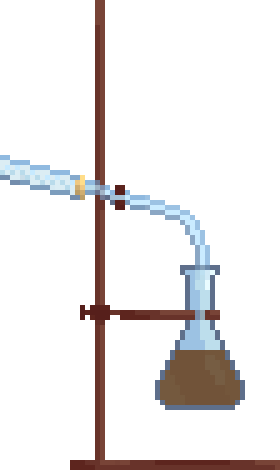
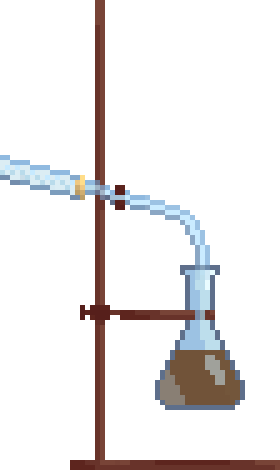
KeroMaker Alfa 1.1
Added anohter bottle, final animation, fifth game phase

Changed region(s): [[0.5714, 0.7745, 0.6571, 0.8638], [0.7143, 0.7447, 0.8, 0.834], [0.7714, 0.6553, 0.8, 0.6851]]

diff --git a/GamePage.xaml b/GamePage.xaml
@@ -50,16 +50,17 @@
 
             <AbsoluteLayout Grid.Column="1" HorizontalOptions="Start">
                 <ImageButton x:Name="imageDestylator3Part"
-                Source="destylator_3_part.svg"
                 HeightRequest="313.3"
                 AbsoluteLayout.LayoutBounds="0, 0, 186.6, 314"
                 AbsoluteLayout.LayoutFlags="PositionProportional"
                 Clicked="ImageDestylator3_Clicked"/>
-                <ImageButton Source="lamp.svg"
+                <ImageButton x:Name="imageLamp"
+                Source="lamp.svg"
                 WidthRequest="100"
                 HeightRequest="170"
                 AbsoluteLayout.LayoutBounds="0, 0, 360, 50"
-                AbsoluteLayout.LayoutFlags="PositionProportional"/>
+                AbsoluteLayout.LayoutFlags="PositionProportional"
+                Clicked="ImageLamp_Clicked"/>
             </AbsoluteLayout>
         </Grid>
 

diff --git a/GamePage.xaml.cs b/GamePage.xaml.cs
@@ -3,6 +3,8 @@ using System.Diagnostics;
 using CommunityToolkit.Maui.Views;
 using MauiToolkitPopupSample.PopUps;
 using KeroMaker.PopUps;
+using System;
+using System.Reflection;
 
 namespace KeroMaker;
 
@@ -37,15 +39,20 @@ public partial class GamePage : ContentPage
                     break;
                 case 2:
                     gamePhase = value;
-                    ChangeOilBottlePhase(1);
+                    ChangeOilBottlePhase(0);
                     ChangeKeroseneBottlePhase(1);
                     break;
                 case 3:
                     gamePhase = value;
-                    ChangeOilBottlePhase(1);
+                    ChangeOilBottlePhase(0);
                     ChangeKeroseneBottlePhase(1);
                     break;
                 case 4:
+                    ChangeOilBottlePhase(0);
+                    ChangeKeroseneBottlePhase(2);
+                    gamePhase = value;
+                    break;
+                case 5:
                     gamePhase = value;
                     Win();
                     break;
@@ -55,6 +62,7 @@ public partial class GamePage : ContentPage
             }
         }
     }
+    
     public GamePage(MainPage mainPage)
     {
         
@@ -80,6 +88,7 @@ public partial class GamePage : ContentPage
 
         playerMixture.addIngredient(ingredients[0]);
         playerMixture.addIngredient(ingredients[1]);
+        imageDestylator3Part.Source = "destylator_3_part.svg";
         GamePhase = 0;
         currentKeroseneBottlePhase = 0;
     }
@@ -120,12 +129,12 @@ public partial class GamePage : ContentPage
         else if (phase == 1)
         {
             currentKeroseneBottlePhase = 1;
-            imageDestylator3Part.Source = "destylator_3_part_filled.png";
+            imageDestylator3Part.Source = "destylator_3_part_refined.png";
         }
         else if (phase == 2)
         {
             currentKeroseneBottlePhase = 2;
-            imageDestylator3Part.Source = "destylator_3_part_refined.png";
+            imageDestylator3Part.Source = "destylator_3_part_filled.png";
         }
     }
     //Wydarzenia klikniêcia obiektów
@@ -159,6 +168,7 @@ public partial class GamePage : ContentPage
             Navigation.PushAsync(new IngredientPage(ingredients, mainPage, this));
         }
 
+
     }
     private async void ImageButtonHint_Clicked(object sender, EventArgs e)
     {
@@ -170,8 +180,54 @@ public partial class GamePage : ContentPage
             timewatch.StartDispatcherTimer();
         }
     }
+    bool isLampClicked = false;
+    private void ImageLamp_Clicked(object sender, EventArgs e)
+    {
+        //Navigation.PushAsync(new IngredientPage(ingredients, mainPage, this));
+        if (gamePhase == 4 && !isLampClicked) 
+        {
+            isLampClicked = true;
+            FinalAnimation();
+        }
+    }
+    
+
+    private void FinalAnimation()
+    {
+        string desylatorSource;
+        string lampSource;
+        int destykatorIndex = 6;
+        int lampIndex = 1;
+        Device.StartTimer(TimeSpan.FromMilliseconds(800), () =>
+        {
+            desylatorSource = "destylator_3_part_filled_" + Convert.ToString(destykatorIndex) + ".png";
+            lampSource = "lamp_filled" + Convert.ToString(destykatorIndex) + ".png";
+
+            imageLamp.Source = lampSource;
+            imageDestylator3Part.Source = desylatorSource;
+
+            destykatorIndex--;
+            lampIndex++;
+
+            if (destykatorIndex == 0)
+            {
+                GamePhase = 5;
+                return false;
+            }
+            else
+            { 
+                return true;
+            }
+            
+        });
+    }
+    async Task PutTaskDelay()
+    {
+        await Task.Delay(2000);
+    }
     private async void Win()
     {
+        await PutTaskDelay();
         string time = timewatch.ElapsedTime;
         timewatch.PauseTimer();
         var popup = new GameWinPopUp(time);

diff --git a/IngredientPage.xaml.cs b/IngredientPage.xaml.cs
@@ -46,14 +46,18 @@ public partial class IngredientPage : ContentPage
         if (gamePage.GamePhase == 0)
         {
             playerMixture.Image.Source = "mixture_bottle.svg";
+            AbsoluteLayout.SetLayoutBounds(mixtureImage, new Rect(0.5, 1, AbsoluteLayout.AutoSize, AbsoluteLayout.AutoSize));
         }
         else if (gamePage.GamePhase == 3)
         {
-            playerMixture.Image.Source = "mixture_in_bottle.svg";
+            playerMixture.Image.Source = "big_bottle_not_refined.png";
+            playerMixture.Image.HeightRequest = 215;
+            AbsoluteLayout.SetLayoutBounds(mixtureImage, new Rect(0.5, 0.02, AbsoluteLayout.AutoSize, AbsoluteLayout.AutoSize));
+            
         }
-
-        AbsoluteLayout.SetLayoutBounds(mixtureImage, new Rect(0.5, 1, AbsoluteLayout.AutoSize, AbsoluteLayout.AutoSize));
         AbsoluteLayout.SetLayoutFlags(mixtureImage, AbsoluteLayoutFlags.PositionProportional);
+
+        
 
         DropZone.Add(mixtureImage);
 
@@ -120,6 +124,10 @@ public partial class IngredientPage : ContentPage
         DropZone.GestureRecognizers.Add(dropGestureRecognizer);
     }
 
+    async Task PutTaskDelay()
+    {
+        await Task.Delay(500);
+    }
     private void OnDragStarting(object sender, DragStartingEventArgs e)
     {
         var dragGestureRecognizer = (DragGestureRecognizer)sender;
@@ -139,7 +147,7 @@ public partial class IngredientPage : ContentPage
         e.AcceptedOperation = DataPackageOperation.Copy;
     }
 
-    private void OnDrop(object sender, DropEventArgs e)
+    private async void OnDrop(object sender, DropEventArgs e)
     {
         if (e.Data.Properties.ContainsKey("Image"))
         {
@@ -151,12 +159,14 @@ public partial class IngredientPage : ContentPage
                 playerMixture.addIngredient(ingredient);
 
                 playerMixture.Image.Source = "mixture_in_bottle.svg";
+                await PutTaskDelay();
                 Win();
             } else if (gamePage.GamePhase == 3 && ingredient.Name == "H2SO4")
             {
                 playerMixture.addIngredient(ingredient);
 
-                playerMixture.Image.Source = "refined_kerosene_in_bottle.svg";
+                playerMixture.Image.Source = "big_bottle_refined.png";
+                await PutTaskDelay();
                 Win();
             }
         }
